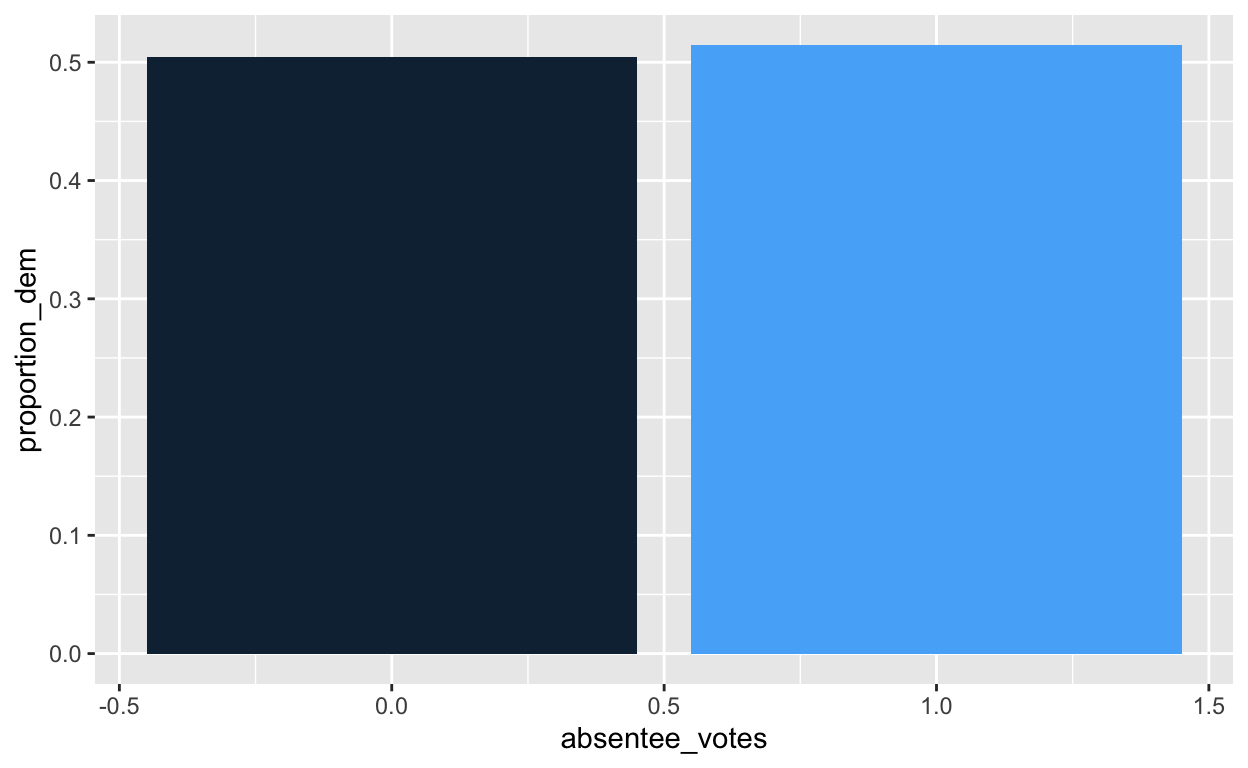
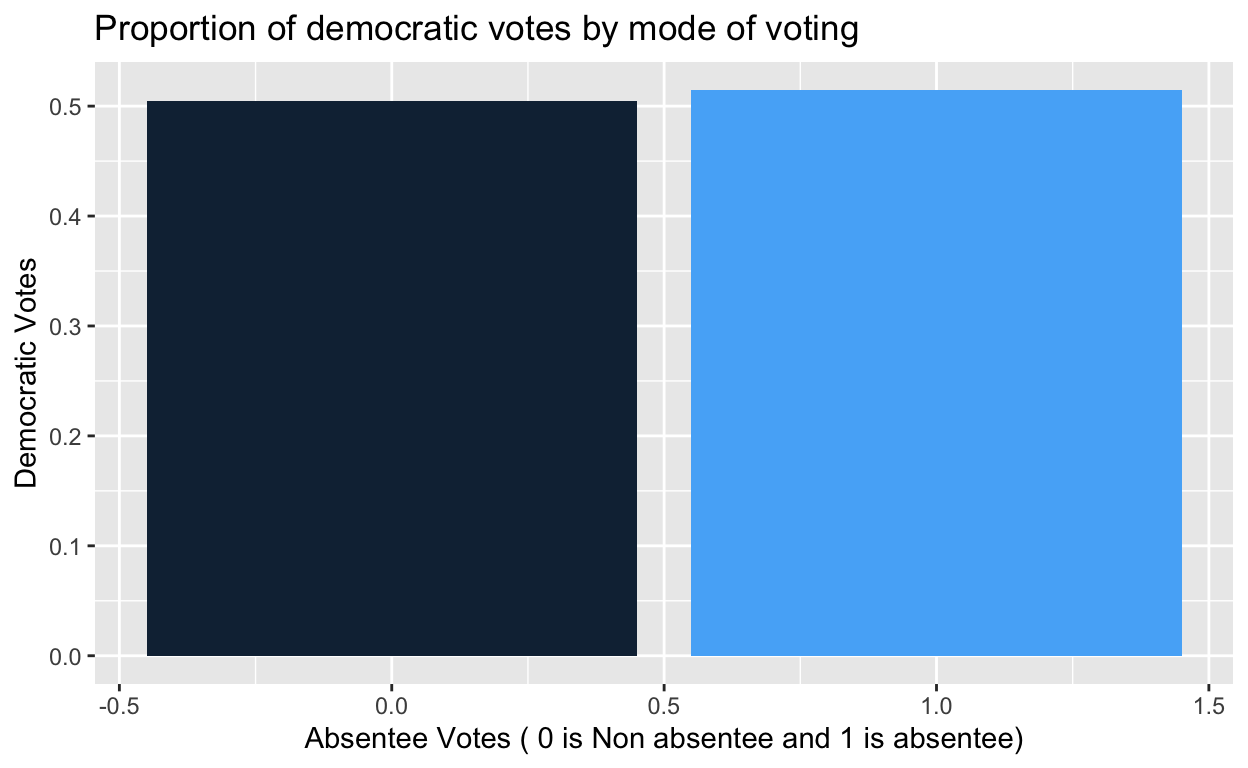
commit labels

diff --git a/index.html b/index.html
@@ -1581,7 +1581,7 @@ code span.wa { color: #5e5e5e; font-style: italic; } /* Warning */
 <span>       fill <span class='op'>=</span> <span class='st'>"Party"</span><span class='op'>)</span> <span class='op'>+</span></span>
 <span>  <span class='fu'><a href='https://ggplot2.tidyverse.org/reference/ggtheme.html'>theme_minimal</a></span><span class='op'>(</span><span class='op'>)</span></span></code></pre>
 </div>
-<img src="index_files/figure-html5/unnamed-chunk-2-1.png" width="1920" />
+<img src="index_files/figure-html5/unnamed-chunk-2-1.png" width="624" />
 <div class="sourceCode">
 <pre class="sourceCode r"><code class="sourceCode r"><span><span class='fu'><a href='https://rdrr.io/r/base/print.html'>print</a></span><span class='op'>(</span><span class='va'>ggplot</span><span class='op'>)</span></span></code></pre>
 </div>
@@ -1589,7 +1589,7 @@ code span.wa { color: #5e5e5e; font-style: italic; } /* Warning */
 {
     UseMethod(&quot;ggplot&quot;)
 }
-&lt;bytecode: 0x7f7b13924e08&gt;
+&lt;bytecode: 0x7f85d6968f98&gt;
 &lt;environment: namespace:ggplot2&gt;</code></pre>
 </div>
 <h2 id="results-section">Results Section</h2>
@@ -1695,7 +1695,10 @@ F-statistic: 25.63 on 1 and 484562 DF,  p-value: 4.146e-07</code></pre>
 <span>  <span class='op'>)</span></span>
 <span></span>
 <span><span class='fu'><a href='https://ggplot2.tidyverse.org/reference/ggplot.html'>ggplot</a></span><span class='op'>(</span><span class='va'>barplot_data</span>, <span class='fu'><a href='https://ggplot2.tidyverse.org/reference/aes.html'>aes</a></span><span class='op'>(</span>x <span class='op'>=</span> <span class='va'>absentee_votes</span>, y <span class='op'>=</span> <span class='va'>proportion_dem</span>, fill <span class='op'>=</span> <span class='va'>absentee_votes</span><span class='op'>)</span><span class='op'>)</span> <span class='op'>+</span></span>
-<span>  <span class='fu'><a href='https://ggplot2.tidyverse.org/reference/geom_bar.html'>geom_bar</a></span><span class='op'>(</span>stat <span class='op'>=</span> <span class='st'>"identity"</span>, show.legend <span class='op'>=</span> <span class='cn'>FALSE</span><span class='op'>)</span></span></code></pre>
+<span>  <span class='fu'><a href='https://ggplot2.tidyverse.org/reference/geom_bar.html'>geom_bar</a></span><span class='op'>(</span>stat <span class='op'>=</span> <span class='st'>"identity"</span>, show.legend <span class='op'>=</span> <span class='cn'>FALSE</span><span class='op'>)</span> <span class='op'>+</span></span>
+<span>  <span class='fu'><a href='https://ggplot2.tidyverse.org/reference/labs.html'>labs</a></span><span class='op'>(</span>title <span class='op'>=</span> <span class='st'>"Proportion of democratic votes by mode of voting"</span>,</span>
+<span>       x <span class='op'>=</span> <span class='st'>"Absentee Votes ( 0 is Non absentee and 1 is absentee)"</span>, </span>
+<span>       y <span class='op'>=</span> <span class='st'>"Democratic Votes"</span><span class='op'>)</span></span></code></pre>
 </div>
 <p><img src="index_files/figure-html5/unnamed-chunk-4-1.png" width="624" /></p>
 </div>
